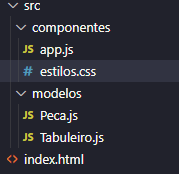
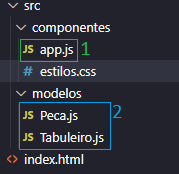
ajuste no readme

Changed region(s): [[0.0838, 0.5747, 0.6983, 0.8621], [0.1117, 0.2011, 0.5028, 0.3736]]

diff --git a/README.md b/README.md
@@ -1,6 +1,12 @@
 # Jogo Dos 8
-## construido com JavaScript
+### construido com JavaScript
 
 > O Jogo dos Oito é um jogo de tabuleiro é estruturado em um tabuleiro 3×3 com 8 peças, cada peça tem um número de 1 a 8, e um espaço vazio. O objetivo é colocar os números nas peças para combinar com a configuração final usando o espaço vazio. Podemos deslizar quatro peças adjacentes (esquerda, direita, acima e abaixo) no espaço vazio.
 
-![image] (/imagens/estrutura.png)
+### Estrutura do Projeto
+
+<img src="./src/Imagens/estrutura.png" align="left">
+
+## __Elementos do Projeto__
+## __1__ - Arquivo do que controla o sistema e manipula o DOM.
+## __2__ - Arquivos modelos, os objetos do sistema.
